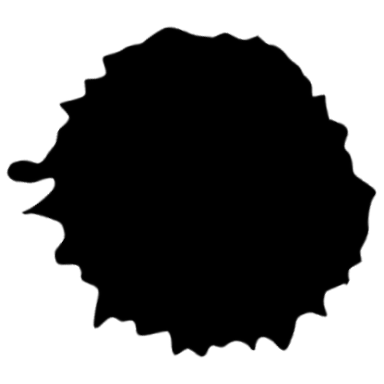
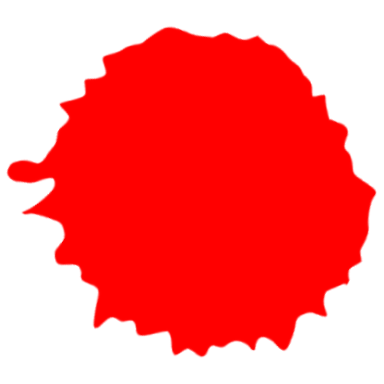
modified image and some css rules

diff --git a/style.css b/style.css
@@ -145,12 +145,30 @@ header#site-header div.header-content {
   margin: auto;
 }
 
-header#site-header div.header-content div.site-logo {
+header#site-header div.header-content div.site-logo-background {
   position: absolute;
-  padding: 6em;
+  width: 250px;
+  height: 250px;
+  display: -ms-grid;
+  display: grid;
+  place-items: center;
+  -webkit-transform: translateY(-6em);
+          transform: translateY(-6em);
+}
+
+header#site-header div.header-content div.site-logo-background::before {
+  content: "";
+  width: 100%;
+  height: 100%;
+  position: absolute;
   background-image: url("images/splatter.png");
   background-size: cover;
-  top: 5;
+  -webkit-filter: brightness(0) invert(100%) sepia() saturate(10000%) hue-rotate(170deg) brightness(0.5) saturate(200%);
+          filter: brightness(0) invert(100%) sepia() saturate(10000%) hue-rotate(170deg) brightness(0.5) saturate(200%);
+}
+
+header#site-header div.header-content div.site-logo {
+  position: relative;
 }
 
 header#site-header div.header-content nav.primary-menu-wrapper {

diff --git a/style/sass/_components.scss b/style/sass/_components.scss
@@ -115,13 +115,26 @@ header#site-header {
         width: $content-size;
         margin: auto;
 
-        div.site-logo {
+        div.site-logo-background {
             position: absolute;
-            padding:6em;
-            background-image: url("images/splatter.png");
-            background-size: cover;
-            top: 5;
+            width: 250px;
+            height: 250px;
+            display: grid;
+            place-items: center;
+            transform: translateY(-6em);
+
+            &::before {
+                content: "";
+                width: 100%;
+                height: 100%;
+                position: absolute;
+                background-image: url("images/splatter.png");
+                background-size: cover;
+                filter: ;
+                
+            }
         }
+        div.site-logo { position: relative; }
     
         nav.primary-menu-wrapper {
             width: auto;

diff --git a/header.php b/header.php
@@ -27,8 +27,10 @@
 
 		<header id="site-header" class="header-footer-group" role="banner">
             <div class="header-content">
-                <div class="site-logo">
-                    <?php echo the_custom_logo(); ?>
+                <div class="site-logo-background">
+                    <div class="site-logo">
+                        <?php echo the_custom_logo(); ?>
+                    </div>
                 </div>
 
                 <nav class="primary-menu-wrapper" aria-label="<?php esc_attr_e( 'Horizontal', 'twentytwenty' ); ?>" role="navigation">
